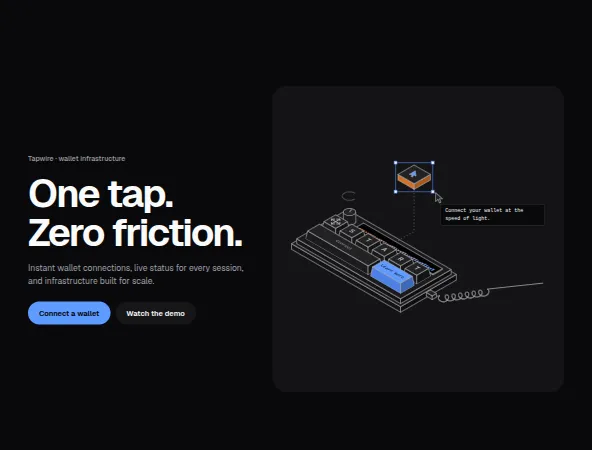
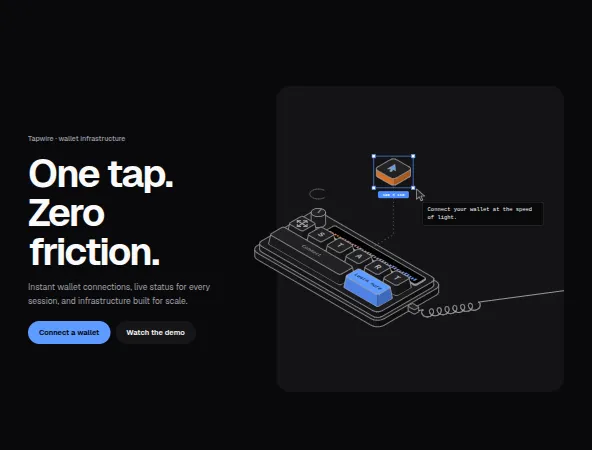
feat(iso-deck): marquee selection, rounded boxes, a deck past its panel
The cursor now stays in the picture: it clicks the canvas to drop the
selection, then drags a marquee over the tile as in a design tool. The
marquee and the cursor share one duration and curve, so its corner stays
on the cursor's tip; on release the selection snaps on with its handles
and a size label.

Every box has rounded vertical edges: a rounded rectangle on its plane,
extruded, with the wall shaded left and right of the front corner. The
deck reaches past the panel's left edge into the gap (never into the
copy), the spinner lies flat above the knob, and the cable leaves the
panel on the right, or through its bottom when it is on the left.

Changed region(s): [[0.0304, 0.3422, 0.9426, 0.7778], [0.6081, 0.3422, 0.8818, 0.4978], [0.0608, 0.28, 0.2128, 0.3111]]

diff --git a/registry/heroes/iso-deck/deck.ts b/registry/heroes/iso-deck/deck.ts
@@ -27,25 +27,77 @@ const escape = (text: string) => text.replace(/[&<>"]/g, (char) => `&#${char.cha
 /** Draws on the horizontal plane at height z, in world units × UNIT. */
 const plane = (z: number) => `matrix(${round(COS * 1000) / 1000} ${SIN} ${-round(COS * 1000) / 1000} ${SIN} 0 ${round(-z * UNIT)})`;
 
-type Box = { x0: number; y0: number; x1: number; y1: number; z0: number; z1: number; taper?: number };
+/** A box, its vertical edges rounded by `r` (world units); a keycap's top is inset by `taper`. */
+type Box = { x0: number; y0: number; x1: number; y1: number; z0: number; z1: number; taper?: number; r?: number };
 
-/** The three visible faces of a box whose top may be inset (a keycap). */
-function faces({ x0, y0, x1, y1, z0, z1, taper = 0 }: Box) {
+/** Points along a rounded rectangle on a horizontal plane, in world units, as one closed loop. */
+function loop(x0: number, y0: number, x1: number, y1: number, radius: number): Point[] {
+	const r = Math.max(0, Math.min(radius, (x1 - x0) / 2, (y1 - y0) / 2));
+	const corners: [number, number, number][] = [[x1 - r, y1 - r, 0], [x0 + r, y1 - r, 90], [x0 + r, y0 + r, 180], [x1 - r, y0 + r, 270]];
+	const steps = r > 0 ? 5 : 0;
+	const list: Point[] = [];
+	for (const [cx, cy, from] of corners) {
+		for (let i = 0; i <= steps; i++) {
+			const angle = ((from + (90 * i) / Math.max(1, steps)) * Math.PI) / 180;
+			list.push([cx + r * Math.cos(angle), cy + r * Math.sin(angle)]);
+		}
+	}
+	return list;
+}
+
+/**
+ * The visible faces of a rounded box: its top, and the side wall seen from the front, the band
+ * between the bottom outline and the top one, split at the front corner into a left (+y) and a
+ * right (+x) shade.
+ */
+function faces({ x0, y0, x1, y1, z0, z1, taper = 0, r = 0 }: Box) {
 	const t = taper;
-	const A = iso(x0, y1, z0), B = iso(x1, y1, z0), C = iso(x1, y0, z0);
-	const a = iso(x0 + t, y1 - t, z1), b = iso(x1 - t, y1 - t, z1), c = iso(x1 - t, y0 + t, z1), d = iso(x0 + t, y0 + t, z1);
+	const bottomWorld = loop(x0, y0, x1, y1, r);
+	const topWorld = loop(x0 + t, y0 + t, x1 - t, y1 - t, Math.max(0.03, r - t * 0.6));
+	const bottom = bottomWorld.map(([x, y]) => iso(x, y, z0));
+	const top = topWorld.map(([x, y]) => iso(x, y, z1));
+	/** From the leftmost to the rightmost point on screen, along the front (lower) half; and the front corner's index in it. */
+	const front = (screen: Point[], world: Point[]) => {
+		const n = screen.length;
+		let left = 0, right = 0;
+		screen.forEach(([x], i) => {
+			if (x < screen[left]![0]) left = i;
+			if (x > screen[right]![0]) right = i;
+		});
+		const walk = (step: number) => {
+			const path: number[] = [left];
+			for (let i = left; i !== right; ) path.push((i = (i + step + n) % n));
+			return path;
+		};
+		const a = walk(1), b = walk(-1);
+		const mean = (path: number[]) => path.reduce((sum, i) => sum + screen[i]![1], 0) / path.length;
+		const path = mean(a) >= mean(b) ? a : b;
+		const back = path === a ? b : a;
+		let corner = 0;
+		path.forEach((index, i) => {
+			const [wx, wy] = world[index]!;
+			const [cx, cy] = world[path[corner]!]!;
+			if (wx + wy > cx + cy) corner = i;
+		});
+		return { path, corner, back };
+	};
+	const fb = front(bottom, bottomWorld), ft = front(top, topWorld);
+	const at = (screen: Point[], indexes: number[]) => indexes.map((i) => screen[i]!);
+	const bottomFront = at(bottom, fb.path), topFront = at(top, ft.path);
 	return {
-		left: [A, B, b, a],
-		right: [B, C, c, b],
-		top: [a, b, c, d],
+		left: [...bottomFront.slice(0, fb.corner + 1), ...topFront.slice(0, ft.corner + 1).reverse()],
+		right: [...bottomFront.slice(fb.corner), ...topFront.slice(ft.corner).reverse()],
+		/** The silhouette's lower edge: up the left side, along the bottom, up the right side. */
+		edge: [topFront[0]!, ...bottomFront, topFront[topFront.length - 1]!],
+		top,
 		/** The outline of the whole box on screen. */
-		hull: [A, B, C, c, d, a],
+		hull: [...bottomFront, ...at(top, ft.back).reverse()],
 	};
 }
 
 function drawBox(box: Box, extra = "") {
 	const f = faces(box);
-	return `<polygon class="sg-id-l" points="${points(f.left)}"/><polygon class="sg-id-r" points="${points(f.right)}"/><polygon class="sg-id-t" points="${points(f.top)}"/>${extra}`;
+	return `<polygon class="sg-id-l sg-id-band" points="${points(f.left)}"/><polygon class="sg-id-r sg-id-band" points="${points(f.right)}"/><polyline class="sg-id-edge" points="${points(f.edge)}"/><polygon class="sg-id-t" points="${points(f.top)}"/>${extra}`;
 }
 
 /** Where a key may be seen: its footprint, from the plate up. Clipping the cap to it hides what sinks below. */
@@ -130,8 +182,8 @@ export function drawDeck(config: IsoDeckConfig, { id, cta }: { id: string; cta?:
 	const track = (list: Point[]) => (seen.push(...list), list);
 
 	// The plate: a tray, then a slightly smaller deck on it.
-	const tray: Box = { x0: -0.36, y0: -0.36, x1: columns + 0.36, y1: rows + 0.36, z0: 0, z1: 0.3 };
-	const top: Box = { x0: -0.2, y0: -0.2, x1: columns + 0.2, y1: rows + 0.2, z0: 0.3, z1: DECK_Z };
+	const tray: Box = { x0: -0.36, y0: -0.36, x1: columns + 0.36, y1: rows + 0.36, z0: 0, z1: 0.3, r: 0.34 };
+	const top: Box = { x0: -0.2, y0: -0.2, x1: columns + 0.2, y1: rows + 0.2, z0: 0.3, z1: DECK_Z, r: 0.24 };
 	track(faces(tray).hull);
 	const clips: string[] = [];
 	const parts: string[] = [`<g class="sg-id-plate" aria-hidden="true">${drawBox(tray)}${drawBox(top)}</g>`];
@@ -149,15 +201,16 @@ export function drawDeck(config: IsoDeckConfig, { id, cta }: { id: string; cta?:
 	if (config.cable !== "none") {
 		const right = config.cable === "right";
 		const plug: Box = right
-			? { x0: columns + 0.36, x1: columns + 0.72, y0: rows / 2 - 0.13, y1: rows / 2 + 0.13, z0: 0.06, z1: 0.26 }
-			: { x0: 0.6, x1: 0.86, y0: rows + 0.36, y1: rows + 0.72, z0: 0.06, z1: 0.26 };
+			? { x0: columns + 0.36, x1: columns + 0.72, y0: rows / 2 - 0.13, y1: rows / 2 + 0.13, z0: 0.06, z1: 0.26, r: 0.05 }
+			: { x0: 0.6, x1: 0.86, y0: rows + 0.36, y1: rows + 0.72, z0: 0.06, z1: 0.26, r: 0.05 };
 		track(faces(plug).hull);
 		const [ox, oy] = right ? iso(columns + 0.72, rows / 2, 0.16) : iso(0.73, rows + 0.72, 0.16);
 		const coil: Point[] = [[0, 0], [12, 0]];
 		for (let t = 0; t <= Math.PI * 14; t += 0.2) coil.push([12 + t * 2.3 - 7 * Math.sin(t), 7 - 7 * Math.cos(t)]);
-		coil.push([coil[coil.length - 1]![0] + 120, 4]);
+		coil.push([coil[coil.length - 1]![0] + 600, 4]);
 		const path = `M${coil.map(([x, y]) => `${round(x)} ${round(y)}`).join("L")}`;
-		const turn = right ? "rotate(-8)" : "rotate(188) scale(1 -1)";
+		// Out of the panel on the right, or down toward its bottom on the left, never across the copy.
+		const turn = right ? "rotate(-8)" : "rotate(68) scale(1 -1)";
 		parts.push(
 			`<g class="sg-id-cable" aria-hidden="true"><g transform="translate(${round(ox)} ${round(oy)}) ${turn}"><g class="sg-id-sway"><path class="sg-id-wire" d="${path}"/></g></g>${drawBox(plug)}</g>`,
 		);
@@ -165,7 +218,7 @@ export function drawDeck(config: IsoDeckConfig, { id, cta }: { id: string; cta?:
 
 	// The keys, the knob and the screen, back to front.
 	const items = cells.map((cell) => {
-		const box: Box = { x0: cell.x + GAP, y0: cell.y + GAP, x1: cell.x + cell.w - GAP, y1: cell.y + cell.d - GAP, z0: DECK_Z, z1: DECK_Z + (cell.kind === "cta" ? 0.5 : 0.42), taper: TAPER };
+		const box: Box = { x0: cell.x + GAP, y0: cell.y + GAP, x1: cell.x + cell.w - GAP, y1: cell.y + cell.d - GAP, z0: DECK_Z, z1: DECK_Z + (cell.kind === "cta" ? 0.5 : 0.42), taper: TAPER, r: cell.kind === "screen" ? 0.08 : 0.13 };
 		return { cell, box };
 	});
 	let linkHull: Point[] | null = null;
@@ -231,14 +284,19 @@ export function drawDeck(config: IsoDeckConfig, { id, cta }: { id: string; cta?:
 	}
 
 	// The tile, its selection box and the cursor, over everything.
-	const tile: Box = { x0: tx, y0: ty, x1: tx + 1, y1: ty + 1, z0: tz, z1: tz + 0.3 };
+	const tile: Box = { x0: tx, y0: ty, x1: tx + 1, y1: ty + 1, z0: tz, z1: tz + 0.3, r: 0.16 };
 	const tileShape = faces(tile);
 	track(tileShape.hull);
-	const tileTop = iso(tx + 0.5, ty + 0.5, tz + 0.3);
 	const xs = tileShape.hull.map(([x]) => x), ys = tileShape.hull.map(([, y]) => y);
 	const box = { x0: Math.min(...xs) - 5, y0: Math.min(...ys) - 5, x1: Math.max(...xs) + 5, y1: Math.max(...ys) + 5 };
 	const handle = (x: number, y: number) => `<rect x="${round(x - 3)}" y="${round(y - 3)}" width="6" height="6"/>`;
+	// The cursor drags a marquee from above the tile's top-left to past its bottom-right, as in a
+	// design tool, and rests there; the marquee is drawn at full size and scaled from its start.
+	const start: Point = [box.x0 - 12, box.y0 - 10];
 	const out: Point = [box.x1 + 6, box.y1 + 2];
+	track([start]);
+	const size = `${Math.round(box.x1 - box.x0) * 2} × ${Math.round(box.y1 - box.y0) * 2}`;
+	const pill = { w: size.length * 5.2 + 10, h: 13, x: (box.x0 + box.x1) / 2, y: box.y1 + 6 };
 	// The spinner lies flat on its own plane, floating above the knob (or the first key), and turns in it.
 	const knobCell = cells.find((cell) => cell.kind === "knob") ?? cells[0]!;
 	const spinAt = { x: knobCell.x + 0.5, y: knobCell.y + knobCell.d / 2, z: DECK_Z + 1.35 };
@@ -247,8 +305,9 @@ export function drawDeck(config: IsoDeckConfig, { id, cta }: { id: string; cta?:
 	parts.push(
 		`<g class="sg-id-spin" aria-hidden="true" transform="${plane(spinAt.z)}"><g transform="translate(${round(spinAt.x * UNIT)} ${round(spinAt.y * UNIT)})"><circle r="${round(spinR * UNIT)}"/></g></g>`,
 		`<g class="sg-id-tile" aria-hidden="true"><ellipse class="sg-id-halo" cx="${round(lead[0]![0])}" cy="${round(lead[0]![1])}" rx="${round(1.1 * UNIT)}" ry="${round(0.64 * UNIT)}"/><g class="sg-id-tile-body">${drawBox(tile, `<g transform="${plane(tile.z1)}"><g transform="translate(${(tx + 0.5) * UNIT - 6} ${(ty + 0.5) * UNIT - 9}) scale(.8)"><path class="sg-id-emblem" d="${ARROW}"/></g></g>`)}</g></g>`,
-		`<g class="sg-id-select" aria-hidden="true"><rect class="sg-id-frame" x="${round(box.x0)}" y="${round(box.y0)}" width="${round(box.x1 - box.x0)}" height="${round(box.y1 - box.y0)}"/>${handle(box.x0, box.y0)}${handle(box.x1, box.y0)}${handle(box.x0, box.y1)}${handle(box.x1, box.y1)}</g>`,
-		`<g class="sg-id-cursor" aria-hidden="true" style="--in-x:${round(tileTop[0])}px;--in-y:${round(tileTop[1])}px;--out-x:${round(out[0])}px;--out-y:${round(out[1])}px"><path d="${ARROW}"/></g>`,
+		`<rect class="sg-id-marquee" aria-hidden="true" x="${round(start[0])}" y="${round(start[1])}" width="${round(out[0] - start[0])}" height="${round(out[1] - start[1])}" style="transform-origin:${round(start[0])}px ${round(start[1])}px"/>`,
+		`<g class="sg-id-select" aria-hidden="true"><rect class="sg-id-frame" x="${round(box.x0)}" y="${round(box.y0)}" width="${round(box.x1 - box.x0)}" height="${round(box.y1 - box.y0)}"/>${handle(box.x0, box.y0)}${handle(box.x1, box.y0)}${handle(box.x0, box.y1)}${handle(box.x1, box.y1)}<rect class="sg-id-size" x="${round(pill.x - pill.w / 2)}" y="${round(pill.y)}" width="${round(pill.w)}" height="${pill.h}" rx="3"/><text class="sg-id-size-text" x="${round(pill.x)}" y="${round(pill.y + pill.h / 2)}">${size}</text></g>`,
+		`<g class="sg-id-cursor" aria-hidden="true" style="--start-x:${round(start[0])}px;--start-y:${round(start[1])}px;--out-x:${round(out[0])}px;--out-y:${round(out[1])}px"><path d="${ARROW}"/></g>`,
 	);
 
 	// The tooltip opens beside the cursor; the drawing makes room for it.

diff --git a/registry/heroes/iso-deck/styles.ts b/registry/heroes/iso-deck/styles.ts
@@ -2,8 +2,9 @@
  * The iso deck's stylesheet, added once per document. The deck is line art:
  * every face is a polygon tinted from a few tokens (`--c` per key: its top,
  * then two darker sides), so it follows the theme and the brand accent. The
- * story is three attributes on the deck, which the engine sets in turn:
- * `data-cursor` (in the tile, or out of it), `data-select` and `data-tip`.
+ * story is a few attributes on the deck, which the engine sets in turn:
+ * `data-cursor` (at the marquee's start, or out past the tile), `data-drag`,
+ * `data-press`, `data-select` and `data-tip`.
  * Without the engine they hold the still frame: cursor out, tile selected,
  * tooltip open.
  */
@@ -26,8 +27,10 @@ export const isoDeckStyles = /* css */ `
 	/* The second tone: a split complement of the brand, kept light and soft enough for line art. */
 	--sg-id-accent-2: color-mix(in oklab, var(--sg-id-accent) 30%, oklch(0.72 0.15 45));
 	--sg-id-on-accent: #0f1311;
+	--sg-id-gap: clamp(32px, 5vw, 80px);
+	--sg-id-pad: clamp(10px, 1.6vw, 24px);
 	position: relative; isolation: isolate;
-	display: grid; grid-template-columns: minmax(0, .85fr) minmax(0, 1.15fr); align-items: center; gap: clamp(28px, 4vw, 64px);
+	display: grid; grid-template-columns: minmax(0, .85fr) minmax(0, 1.15fr); align-items: center; gap: var(--sg-id-gap);
 	min-height: max(640px, 100svh); box-sizing: border-box;
 	padding: calc(var(--header-height, 64px) + clamp(24px, 4svh, 48px)) clamp(20px, 4vw, 56px) clamp(24px, 5svh, 56px);
 	color: var(--sg-id-ink); background: var(--sg-id-bg);
@@ -67,13 +70,18 @@ export const isoDeckStyles = /* css */ `
 	.sg-id-cta[data-variant="secondary"]:hover { background: color-mix(in oklab, var(--sg-id-ink) 11%, var(--sg-id-bg)); }
 }
 
-/* The panel, and the deck in it (its own container: the tooltip is sized in deck units) */
+/* The panel, and the deck in it (its own container: the tooltip is sized in deck units). As in a
+   product shot, the deck is larger than the panel and reaches past its left edge, into most of the gap
+   (never into the copy); the panel only
+   cuts it on the right, where the cable leaves. */
 .sg-id-panel {
-	position: relative; display: grid; place-items: center; overflow: hidden;
-	min-height: min(68svh, 620px); padding: clamp(10px, 1.6vw, 24px); box-sizing: border-box;
+	position: relative; display: grid; place-items: center;
+	min-height: min(68svh, 620px); padding: var(--sg-id-pad); box-sizing: border-box;
 	border-radius: 28px; background: var(--sg-id-panel);
+	--reach: calc(var(--sg-id-pad) + var(--sg-id-gap) * .85);
+	clip-path: inset(0 0 0 calc(-1 * var(--reach)));
 }
-.sg-id-deck { position: relative; width: 100%; container-type: inline-size; -webkit-tap-highlight-color: transparent; }
+.sg-id-deck { position: relative; width: calc(100% + var(--reach)); justify-self: start; margin-left: calc(-1 * var(--reach)); container-type: inline-size; -webkit-tap-highlight-color: transparent; }
 .sg-id-art, .sg-id-svg { display: block; width: 100%; height: auto; overflow: visible; }
 .sg-id-svg { stroke: var(--sg-id-line); stroke-width: 1.25; stroke-linejoin: round; stroke-linecap: round; }
 
@@ -83,6 +91,9 @@ export const isoDeckStyles = /* css */ `
 .sg-id-l { fill: color-mix(in oklab, var(--c) 88%, var(--sg-id-shade)); }
 .sg-id-r { fill: color-mix(in oklab, var(--c) 76%, var(--sg-id-shade)); }
 .sg-id-plate { --c: var(--sg-id-plate); }
+/* A rounded wall is two shaded bands without lines, then its silhouette */
+.sg-id-band { stroke: none; }
+.sg-id-edge { fill: none; }
 .sg-id-print { fill: none; stroke-width: 1.6; }
 .sg-id-letter, .sg-id-label { fill: var(--sg-id-line); stroke: none; font-family: var(--sg-id-mono); text-anchor: middle; dominant-baseline: central; }
 .sg-id-letter { font-size: 15px; font-weight: 600; }
@@ -117,19 +128,28 @@ export const isoDeckStyles = /* css */ `
 .sg-id-emblem { fill: var(--sg-id-accent); stroke-width: 1.2; }
 .sg-id-halo { fill: none; stroke: var(--sg-id-accent); stroke-width: 2; opacity: 0; transform-box: fill-box; transform-origin: center; }
 
-/* The story: selection, cursor, tooltip */
-.sg-id-select { fill: white; stroke: var(--sg-id-select-c); stroke-width: 1.2; opacity: 0; transition: opacity .15s ease-out; }
+/* The story, as in a design tool: the cursor drags a marquee over the tile, the selection snaps on.
+   The marquee and the cursor share one duration and curve, so its corner stays on the cursor's tip. */
+.sg-id-deck { --sg-id-drag: .9s; --sg-id-drag-ease: cubic-bezier(.5, 0, .3, 1); }
+.sg-id-select { fill: white; stroke: var(--sg-id-select-c); stroke-width: 1.2; opacity: 0; transition: opacity .06s; }
 .sg-id-frame { fill: none; }
+.sg-id-size { fill: var(--sg-id-select-c); stroke: none; }
+.sg-id-size-text { fill: white; stroke: none; font: 600 7.5px var(--sg-id-mono); text-anchor: middle; dominant-baseline: central; }
 .sg-id-deck[data-select] .sg-id-select { opacity: 1; }
+.sg-id-marquee {
+	fill: color-mix(in oklab, var(--sg-id-select-c) 10%, transparent); stroke: var(--sg-id-select-c); stroke-width: 1; vector-effect: non-scaling-stroke;
+	opacity: 0; transform: scale(0); transition: opacity .1s, transform 0s .1s;
+}
+.sg-id-deck[data-drag] .sg-id-marquee { opacity: 1; transform: none; transition: transform var(--sg-id-drag) var(--sg-id-drag-ease); }
 .sg-id-cursor {
 	fill: var(--sg-id-face); stroke: var(--sg-id-line); stroke-width: 1.3;
-	transform: translate(var(--in-x), var(--in-y)) scale(.4); opacity: 0;
-	transition: transform .5s cubic-bezier(.6, 0, .8, .3), opacity .3s ease-in .2s;
+	transform: translate(var(--out-x), var(--out-y));
+	transition: transform .7s cubic-bezier(.45, 0, .2, 1);
 }
-.sg-id-deck[data-cursor="out"] .sg-id-cursor {
-	transform: translate(var(--out-x), var(--out-y)); opacity: 1;
-	transition: transform .65s cubic-bezier(.23, 1, .32, 1), opacity .2s ease-out;
-}
+.sg-id-deck[data-cursor="start"] .sg-id-cursor { transform: translate(var(--start-x), var(--start-y)); }
+.sg-id-deck[data-drag] .sg-id-cursor { transition: transform var(--sg-id-drag) var(--sg-id-drag-ease); }
+.sg-id-cursor path { transform-box: fill-box; transform-origin: 0 0; transition: transform .08s ease-out; }
+.sg-id-deck[data-press] .sg-id-cursor path { transform: scale(.88); }
 .sg-id-tip {
 	position: absolute; margin: 0; max-width: calc(var(--u, 10) * 5.6cqw); box-sizing: border-box;
 	padding: calc(var(--u, 10) * .16cqw) calc(var(--u, 10) * .24cqw);
@@ -152,13 +172,11 @@ export const isoDeckStyles = /* css */ `
 /* Moving parts: only with motion on */
 .sg-id[data-motion="ready"] .sg-id-leader { animation: sg-id-march 1.2s linear infinite; }
 .sg-id[data-motion="ready"] .sg-id-spin circle { transform-box: fill-box; transform-origin: center; animation: sg-id-spin 1.6s linear infinite; }
-.sg-id[data-motion="ready"] .sg-id-tile-body[data-gulp] { animation: sg-id-gulp .42s cubic-bezier(.23, 1, .32, 1); }
 .sg-id[data-motion="ready"][data-connected] .sg-id-halo { animation: sg-id-halo 1.1s cubic-bezier(.23, 1, .32, 1) infinite; }
 .sg-id[data-motion="ready"][data-connected] .sg-id-tile-body { animation: sg-id-pulse 1.1s cubic-bezier(.23, 1, .32, 1) infinite; }
 .sg-id[data-paused] * { animation-play-state: paused !important; }
 @keyframes sg-id-march { to { stroke-dashoffset: -14; } }
 @keyframes sg-id-spin { to { transform: rotate(1turn); } }
-@keyframes sg-id-gulp { 35% { transform: scale(1.07, .88); } }
 @keyframes sg-id-pulse { 30% { transform: translateY(-3px); } }
 @keyframes sg-id-halo { from { opacity: .7; transform: scale(.7); } to { opacity: 0; transform: scale(1.25); } }
 @keyframes sg-id-caret { 50% { opacity: 0; } }
@@ -172,6 +190,7 @@ export const isoDeckStyles = /* css */ `
 
 @media (max-width: 860px) {
 	.sg-id { grid-template-columns: minmax(0, 1fr); min-height: 0; }
-	.sg-id-panel { min-height: 0; padding: 20px 12px; border-radius: 22px; }
+	.sg-id-panel { min-height: 0; padding: 20px 12px; border-radius: 22px; overflow: hidden; clip-path: none; }
+	.sg-id-deck { width: 100%; margin-left: 0; }
 }
 `;

diff --git a/registry/heroes/iso-deck/engine.ts b/registry/heroes/iso-deck/engine.ts
@@ -88,7 +88,7 @@ export function createIsoDeck({ host, config }: DomHeroOptions<IsoDeckConfigInpu
 	const connectedLabel = () => deck.dataset.connectedLabel ?? host.dataset.connectedLabel ?? "Connected";
 
 	// The drawing, and the parts the engine moves. Drawn here unless the server already did.
-	type Parts = { keys: Map<string, SVGGElement>; letters: SVGGElement[]; bars: SVGRectElement[]; dial: SVGGElement | null; sway: SVGGElement | null; tile: SVGGElement | null };
+	type Parts = { keys: Map<string, SVGGElement>; letters: SVGGElement[]; bars: SVGRectElement[]; dial: SVGGElement | null; sway: SVGGElement | null };
 	let parts: Parts;
 	let layoutKey = "";
 	const draw = (force: boolean) => {
@@ -105,7 +105,6 @@ export function createIsoDeck({ host, config }: DomHeroOptions<IsoDeckConfigInpu
 			bars: [...art.querySelectorAll<SVGRectElement>(".sg-id-bar")],
 			dial: art.querySelector(".sg-id-dial"),
 			sway: art.querySelector(".sg-id-sway"),
-			tile: art.querySelector(".sg-id-tile-body"),
 		};
 		levels = new Float32Array(parts.bars.length);
 		written = new Float32Array(parts.bars.length).fill(-1);
@@ -131,6 +130,8 @@ export function createIsoDeck({ host, config }: DomHeroOptions<IsoDeckConfigInpu
 	const still = () => {
 		deck.dataset.cursor = "out";
 		deck.dataset.select = "";
+		delete deck.dataset.drag;
+		delete deck.dataset.press;
 		delete deck.dataset.typing;
 		const text = connected ? connectedLabel() : tagline();
 		tip.dataset.text = text;
@@ -188,8 +189,8 @@ export function createIsoDeck({ host, config }: DomHeroOptions<IsoDeckConfigInpu
 		}, CONNECTED);
 	};
 
-	// The story, while nobody plays: spell, hold, close, the cursor dives into the tile and comes back
-	// out, selects it and types the tagline, which is the still frame again.
+	// The story, while nobody plays: spell, hold, close; the cursor deselects the tile, drags a marquee
+	// over it as in a design tool, and the tooltip types the tagline, which is the still frame again.
 	let story: AbortController | null = null;
 	let idleTimer = 0;
 	const sleep = (ms: number, until: AbortSignal) =>
@@ -206,18 +207,25 @@ export function createIsoDeck({ host, config }: DomHeroOptions<IsoDeckConfigInpu
 			}
 			await sleep(1500, until);
 			delete deck.dataset.tip;
+			await sleep(350, until);
+			// A click on the empty canvas drops the selection.
+			deck.dataset.press = "";
+			await sleep(110, until);
+			delete deck.dataset.press;
 			delete deck.dataset.select;
-			await sleep(260, until);
-			deck.dataset.cursor = "in";
-			await sleep(420, until);
-			parts.tile?.setAttribute("data-gulp", "");
 			await sleep(450, until);
-			parts.tile?.removeAttribute("data-gulp");
-			await sleep(900, until);
+			// Then a marquee, dragged from above the tile's corner to past the opposite one.
+			deck.dataset.cursor = "start";
+			await sleep(800, until);
+			deck.dataset.press = "";
+			await sleep(120, until);
+			deck.dataset.drag = "";
 			deck.dataset.cursor = "out";
-			await sleep(700, until);
+			await sleep(950, until);
+			delete deck.dataset.press;
+			delete deck.dataset.drag;
 			deck.dataset.select = "";
-			await sleep(380, until);
+			await sleep(420, until);
 			const text = tagline();
 			if (text) {
 				tip.dataset.text = "";
@@ -241,7 +249,6 @@ export function createIsoDeck({ host, config }: DomHeroOptions<IsoDeckConfigInpu
 		if (!story) return;
 		story.abort();
 		story = null;
-		parts.tile?.removeAttribute("data-gulp");
 		still();
 	};
 	/** The visitor is playing: the story steps aside, and comes back after a quiet moment. */

diff --git a/proposals/RFC-0001-Sharingan.md b/proposals/RFC-0001-Sharingan.md
@@ -336,10 +336,16 @@ keeps its look and its loop, and makes the deck something to play with.
 
 - **Geometry from code.** An isometric helper turns boxes
   (`x, y, z, w, d, h`) into three face polygons and their outlines, in one
-  SVG (`deck.ts`, which React also runs on the server). The deck is laid
+  SVG (`deck.ts`, which React also runs on the server). Like a product
+  shot, it is larger than its panel and reaches past the panel's left edge
+  into the gap, never into the copy; the cable leaves through the panel's
+  right edge, or its bottom when it is on the left. The deck is laid
   out from the config: a narrow strip at the back (knob, screen), the
   letters (3–6, `"START"` by default), and with two rows a front row with
-  the wide key and the front key. Boxes are drawn back to front; each
+  the wide key and the front key. Every box has rounded vertical edges
+  (a rounded rectangle on its plane, extruded: the wall is a band between
+  the bottom and top outlines, shaded left and right of the front corner).
+  Boxes are drawn back to front; each
   key's cap sits in a clip that ends at the plate, so a pressed cap sinks
   instead of growing. It is redrawn only when the layout changes, never per
   frame. The object stays a deck: other objects in the same style would
@@ -347,11 +353,15 @@ keeps its look and its loop, and makes the deck something to play with.
 - **Loop.** About eight seconds, as in the reference: from the still frame
   (cursor out, tile selected, tagline in the tooltip) the keys press one by
   one to spell the word and the meter reacts; the tooltip closes, the
-  cursor dives back into the floating tile, comes out, selects it and types
-  the tagline again. The dotted line from the tile follows the axes (down,
-  then along the deck) to the screen. The loop is three attributes on the
-  deck and CSS transitions; the meter, the knob's dial and the cable share
-  one frame callback, only while the hero is on screen.
+  cursor clicks the empty canvas to drop the selection, then drags a
+  marquee over the floating tile as in a design tool (the marquee and the
+  cursor share one duration and curve, so its corner stays on the tip),
+  the selection snaps on with its handles and size, and the tooltip types
+  the tagline again. The cursor never leaves the picture. The dotted line
+  from the tile follows the axes (down, then along the deck) to the screen.
+  The loop is a few attributes on the deck and CSS transitions; the meter,
+  the knob's dial and the cable share one frame callback, only while the
+  hero is on screen.
 - **Interaction.** A key under the pointer presses (it travels down, its
   shadow tightens, the meter jumps) and the loop waits until the pointer
   has been still for about three seconds. Typing the word on the page
